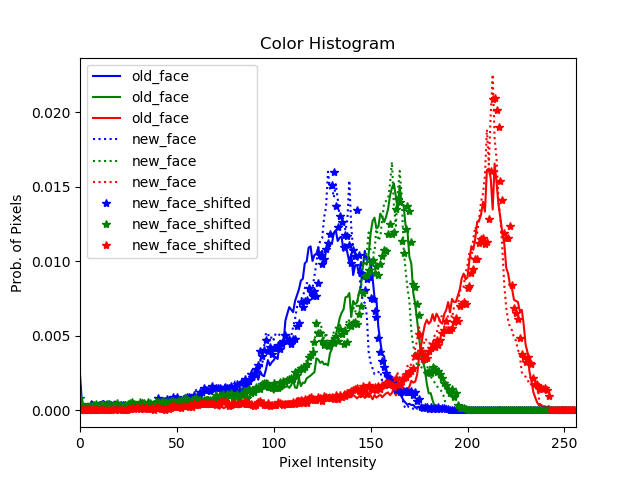
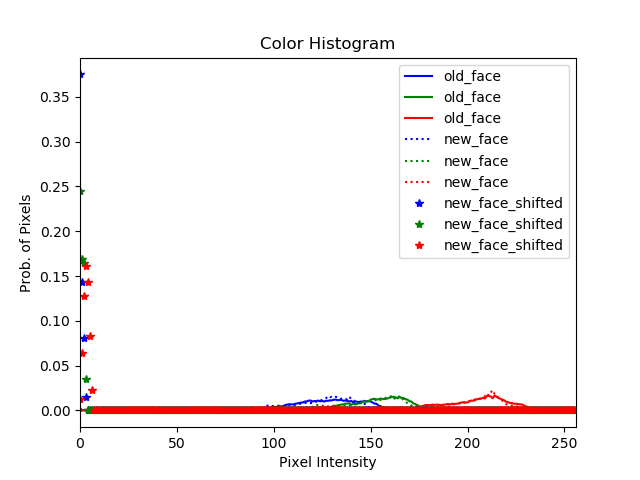
use adjusted and not raw mask

diff --git a/plugins/convert/color/_base.py b/plugins/convert/color/_base.py
@@ -37,31 +37,25 @@ class Adjustment():
         logger.debug("Config: %s", retval)
         return retval
 
-    def process(self, old_face, new_face, raw_mask, color_method):
+    def process(self, old_face, new_face, color_method):
         """ Override for specific color adjustment process """
         raise NotImplementedError
 
-    def run(self, old_face, new_face, raw_mask, color_method):
+    def run(self, old_face, new_face, color_method):
         """ Perform selected adjustment on facial crops """
         logger.trace("Performing color adjustment")
-        # Remove Mask for processing .... see if this is necessary
-        reinsert_mask = False
-        if new_face.shape[2] == 4:
-            reinsert_mask = True
-            final_mask = new_face[:, :, -1:]
-            new_face = new_face[:, :, :3]
+        old_face_color = self.convert_colorspace(old_face[None, :, :, :3], color_method, to_bgr=False)
+        new_face_color = self.convert_colorspace(new_face[None, :, :, :3], color_method, to_bgr=False)
+        mask = np.concatenate((new_face[:, :, -1:], new_face[:, :, -1:], new_face[:, :, -1:]), axis=-1)[None, ...]
 
-        old_face_color = self.convert_colorspace(old_face[None, ...], color_method, to_bgr=False)
-        new_face_color = self.convert_colorspace(new_face[None, ...], color_method, to_bgr=False)
-        mask = np.concatenate((raw_mask, raw_mask, raw_mask), axis=-1)[None, ...]
         new_face_shifted = self.process(old_face_color, new_face_color, mask)
         new_face_shifted = self.convert_colorspace(new_face_shifted, color_method, to_bgr=True)
-        new_face_shifted = self.clip_image(new_face_shifted)[0]
-        # self._histogram_compare(old_face, new_face, new_face_shifted, raw_mask)
-        if reinsert_mask and new_face.shape[2] != 4:
-            new_face_shifted = np.concatenate((new_face_shifted, final_mask), axis=-1)
+        new_face_shifted = self.clip_image(new_face_shifted)
+        new_face[:, :, :3] = new_face_shifted[0]
+
+        # self._histogram_compare(old_face, new_face, new_face_shifted, mask)
         logger.trace("Performed color adjustment")
-        return new_face_shifted
+        return new_face
 
     def convert_colorspace(self, new_face, color_method, to_bgr=False):
         """ Convert colorspace based on mode or back to BGR """
@@ -108,7 +102,7 @@ class Adjustment():
         return image
 
     @staticmethod
-    def _histogram_compare(old_face, new_face, new_face_shifted, raw_mask):
+    def _histogram_compare(old_face, new_face, new_face_shifted, mask):
         """
         Perform either clipping or min-max scaling to a NumPy array
 
@@ -131,7 +125,7 @@ class Adjustment():
         plt.xlabel("Pixel Intensity")
         plt.ylabel("Prob. of Pixels")
          
-        mask = np.rint(raw_mask).astype("uint8")
+        mask = np.rint(mask).astype("uint8")
         for (image, marker, linestyle, name) in zip(images, markers, linestyles, names):
             for (color, channel) in zip(colors, channels):
                 hist = cv2.calcHist([image], channels=[channel], mask=mask, histSize=[256], ranges=[0.0, 1.0], accumulate=False)

diff --git a/plugins/convert/color/seamless_clone.py b/plugins/convert/color/seamless_clone.py
@@ -9,7 +9,7 @@ from ._base import Adjustment
 class Color(Adjustment):
     """ Poisson Blending of colors along mask boundary """
 
-    def process(self, old_face, new_face, raw_mask):
+    def process(self, old_face, new_face, mask):
         """
         Seamlessly merge the swapped facial crop into the original facial crop using Poisson
         Blending. The colors along the segmentation mask boundary will be shifted to produce
@@ -21,7 +21,7 @@ class Color(Adjustment):
             Facial crop of the original subject
         new_face : Numpy array, shape (n_images, height, width, n_channels), float32
             Facial crop of the swapped output from the neural network
-        raw_mask : Numpy array, shape (n_images, height, width, n_channels), float32
+        mask : Numpy array, shape (n_images, height, width, n_channels), float32
             Segmentation mask of the facial crop of the original subject
 
         Returns:
@@ -30,22 +30,22 @@ class Color(Adjustment):
             Facial crop of the swapped output with a shifted color distribution
         """
         new_face_shifted = np.empty_like(new_face)
-        for index, (old_img, new_img, mask) in enumerate(zip(old_face, new_face, raw_mask)):
-            new_face_shifted[index] = self._seamless_clone(old_img, new_img, mask)
+        for index, (old_img, new_img, img_mask) in enumerate(zip(old_face, new_face, mask)):
+            new_face_shifted[index] = self._seamless_clone(old_img, new_img, img_mask)
         return new_face_shifted
 
     @staticmethod
-    def _seamless_clone(old_face, new_face, raw_mask):
+    def _seamless_clone(old_face, new_face, mask):
         """  Clone each image seperately """
         height, width, _ = old_face.shape
-        y_indices, x_indices, _ = np.nonzero(raw_mask)
+        y_indices, x_indices, _ = np.nonzero(mask)
         y_crop = slice(np.min(y_indices), np.max(y_indices))
         x_crop = slice(np.min(x_indices), np.max(x_indices))
         y_center = int(np.rint((np.max(y_indices) + np.min(y_indices) + height) / 2.0))
         x_center = int(np.rint((np.max(x_indices) + np.min(x_indices) + width) / 2.0))
 
         insertion_image = np.rint(new_face[y_crop, x_crop] * 255.0).astype("uint8")
-        insertion_mask = np.rint(raw_mask[y_crop, x_crop] * 255.0).astype("uint8")
+        insertion_mask = np.rint(mask[y_crop, x_crop] * 255.0).astype("uint8")
         insertion_mask[insertion_mask != 0] = 255
         height = height // 2
         width = width // 2

diff --git a/plugins/convert/color/match_variance.py b/plugins/convert/color/match_variance.py
@@ -15,7 +15,7 @@ class Color(Adjustment):
     """
 
     @staticmethod
-    def process(old_face, new_face, raw_mask):
+    def process(old_face, new_face, mask):
         """
         Match the 1st and 2nd moments of the color distribution from the original facial crop
         by adjusting the distribution in the swapped facial crop.
@@ -26,7 +26,7 @@ class Color(Adjustment):
             Facial crop of the original subject
         new_face : Numpy array, shape (n_images, height, width, n_channels), float32
             Facial crop of the swapped output from the neural network
-        raw_mask : Numpy array, shape (n_images, height, width, n_channels), float32
+        mask : Numpy array, shape (n_images, height, width, n_channels), float32
             Segmentation mask of the facial crop of the original subject
 
         Returns:
@@ -34,10 +34,10 @@ class Color(Adjustment):
         new_face_shifted : Numpy array, shape (n_images, height, width, n_channels), float32
             Facial crop of the swapped output with a shifted color distribution
         """
-        old_mean = np.average(old_face, axis=(1, 2), weights=raw_mask)
-        new_mean = np.average(new_face, axis=(1, 2), weights=raw_mask)
-        old_std = np.sqrt(np.average((old_face - old_mean)**2, axis=(1, 2), weights=raw_mask))
-        new_std = np.sqrt(np.average((new_face - new_mean)**2, axis=(1, 2), weights=raw_mask))
+        old_mean = np.average(old_face, axis=(1, 2), weights=mask)
+        new_mean = np.average(new_face, axis=(1, 2), weights=mask)
+        old_std = np.sqrt(np.average((old_face - old_mean)**2, axis=(1, 2), weights=mask))
+        new_std = np.sqrt(np.average((new_face - new_mean)**2, axis=(1, 2), weights=mask))
 
         # there is no "preserve paper" as Reinhard's math always uses (old_face_std / new_face_std)
         # must have been confusion due to the terminology of "source" and "target" in the paper

diff --git a/plugins/convert/color/match_histogram.py b/plugins/convert/color/match_histogram.py
@@ -8,7 +8,7 @@ from ._base import Adjustment
 class Color(Adjustment):
     """ Match the histogram of the color intensity of each image channel """
 
-    def process(self, old_face, new_face, raw_mask):
+    def process(self, old_face, new_face, mask):
         """
         Calculate the histogram of each color channel in the original facial crop and the
         swapped facial crop. Shift the histogram of the swap to align with the histogram of the
@@ -20,7 +20,7 @@ class Color(Adjustment):
             Facial crop of the original subject
         new_face : Numpy array, shape (n_images, height, width, n_channels), float32
             Facial crop of the swapped output from the neural network
-        raw_mask : Numpy array, shape (n_images, height, width, n_channels), float32
+        mask : Numpy array, shape (n_images, height, width, n_channels), float32
             Segmentation mask of the facial crop of the original subject
 
         Returns:
@@ -31,8 +31,8 @@ class Color(Adjustment):
         threshold = self.config["threshold"]
         channels = range(new_face.shape[-1])
         new_face_shifted = np.empty_like(new_face)
-        for index, (old_img, new_img, mask) in enumerate(zip(old_face, new_face, raw_mask)):
-            mask_indices = np.nonzero(mask)[:2]
+        for index, (old_img, new_img, img_mask) in enumerate(zip(old_face, new_face, mask)):
+            mask_indices = np.nonzero(img_mask)[:2]
             for channel in channels:
                 new_face_shifted[index, :, :, channel] = self._hist_match(old_img[:, :, channel],
                                                                           new_img[:, :, channel],

diff --git a/plugins/convert/color/color_transfer.py b/plugins/convert/color/color_transfer.py
@@ -33,7 +33,7 @@ class Color(Adjustment):
     between Images" paper by Reinhard et al., 2001.
     """
 
-    def process(self, old_face, new_face, raw_mask):
+    def process(self, old_face, new_face, mask):
         """
         Parameters:
         -------
@@ -64,10 +64,10 @@ class Color(Adjustment):
         # sure to utilizing the floating point data type (note: OpenCV
         # expects floats to be 32-bit, so use that instead of 64-bit)
         source = cv2.cvtColor(  # pylint: disable=no-member
-            np.rint(old_face[0][:,:,::-1] * raw_mask[0] * 255.0).astype("uint8"),
+            np.rint(old_face[0][:,:,::-1] * mask[0] * 255.0).astype("uint8"),
             cv2.COLOR_BGR2LAB).astype("float32")  # pylint: disable=no-member
         target = cv2.cvtColor(  # pylint: disable=no-member
-            np.rint(new_face[0][:,:,::-1] * raw_mask[0] * 255.0).astype("uint8"),
+            np.rint(new_face[0][:,:,::-1] * mask[0] * 255.0).astype("uint8"),
             cv2.COLOR_BGR2LAB).astype("float32")  # pylint: disable=no-member
         # compute color statistics for the source and target images
         (l_mean_src, l_std_src,
@@ -112,7 +112,7 @@ class Color(Adjustment):
         transfer = cv2.cvtColor(  # pylint: disable=no-member
             transfer.astype("uint8"),
             cv2.COLOR_LAB2BGR).astype("float32") / 255.0  # pylint: disable=no-member
-        background = new_face[0] * (1 - raw_mask[0])
+        background = new_face[0] * (1 - mask[0])
         merged = transfer[:,:,::-1] + background
         print("end")
         # return the color transferred image

diff --git a/plugins/convert/color/match_skew.py b/plugins/convert/color/match_skew.py
@@ -9,7 +9,7 @@ from ._base import Adjustment
 class Color(Adjustment):
     """ Color distribution shifting using an optimized power transform """
 
-    def process(self, old_face, new_face, raw_mask):
+    def process(self, old_face, new_face, mask):
         """
         Remap swapped_images to the source_images' color distribution accounting for the skewed
         color distribution
@@ -20,7 +20,7 @@ class Color(Adjustment):
             Facial crop of the original subject whose color distributions are to be matched
         new_face : Numpy array, shape (n_images, height, width, n_channels), float32
             Facial crop of the swapped output from the neural network
-        raw_mask : Numpy array, shape (n_images, height, width, n_channels), float32
+        mask : Numpy array, shape (n_images, height, width, n_channels), float32
             Segmentation mask of the facial crop of the original subject
 
         Returns:
@@ -31,7 +31,7 @@ class Color(Adjustment):
         channels = range(new_face.shape[-1])
         old_faces = np.concatenate([old_face[..., channel] for channel in channels], axis=0)
         new_faces = np.concatenate([new_face[..., channel] for channel in channels], axis=0)
-        masks = np.concatenate([raw_mask[..., channel] for channel in channels], axis=0)
+        masks = np.concatenate([mask[..., channel] for channel in channels], axis=0)
         new_face_shifted = new_faces.copy()
         for index, (old, new, mask) in enumerate(zip(old_faces, new_faces, masks)):
             select = (mask >= 0.5)

diff --git a/plugins/convert/color/match_mean.py b/plugins/convert/color/match_mean.py
@@ -9,7 +9,7 @@ class Color(Adjustment):
     """ Color distribution matching """
 
     @staticmethod
-    def process(old_face, new_face, raw_mask):
+    def process(old_face, new_face, mask):
         """
         Match the 1st moment of the color distribution from the original facial crop
         by adjusting the distribution in the swapped facial crop.
@@ -20,7 +20,7 @@ class Color(Adjustment):
             Facial crop of the original subject
         new_face : Numpy array, shape (n_images, height, width, n_channels), float32
             Facial crop of the swapped output from the neural network
-        raw_mask : Numpy array, shape (n_images, height, width, n_channels), float32
+        mask : Numpy array, shape (n_images, height, width, n_channels), float32
             Segmentation mask of the facial crop of the original subject
 
         Returns:
@@ -28,6 +28,6 @@ class Color(Adjustment):
         new_face_shifted : Numpy array, shape (n_images, height, width, n_channels), float32
             Facial crop of the swapped output with a shifted color distribution
         """
-        adjustment = np.average(old_face - new_face, axis=(1, 2), weights=raw_mask)
+        adjustment = np.average(old_face - new_face, axis=(1, 2), weights=mask)
         new_face_shifted = new_face + adjustment
         return new_face_shifted

diff --git a/plugins/convert/color/manual_balance.py b/plugins/convert/color/manual_balance.py
@@ -8,7 +8,7 @@ from ._base import Adjustment
 class Color(Adjustment):
     """ Color distribution adjustment """
 
-    def process(self, old_face, new_face, raw_mask):
+    def process(self, old_face, new_face, mask):
         """
         Shift the color distribution of the swapped facial crop by an user input amount.
 
@@ -18,7 +18,7 @@ class Color(Adjustment):
             Facial crop of the original subject
         new_face : Numpy array, shape (n_images, height, width, n_channels), float32
             Facial crop of the swapped output from the neural network
-        raw_mask : Numpy array, shape (n_images, height, width, n_channels), float32
+        mask : Numpy array, shape (n_images, height, width, n_channels), float32
             Segmentation mask of the facial crop of the original subject
 
         Returns:

diff --git a/lib/convert.py b/lib/convert.py
@@ -276,9 +276,9 @@ class Converter():
         new_face = self._adjustments["box"].run(new_face)
         new_face, raw_mask = self._get_image_mask(new_face, detected_face, predicted_mask)
         if self._adjustments["color"] is not None:
-            new_face = self._adjustments["color"].run(old_face, new_face, raw_mask, self._args.color_adjustment)
+            new_face = self._adjustments["color"].run(old_face, new_face, self._args.color_adjustment)
         if self._adjustments["seamless"] is not None:
-            new_face = self._adjustments["seamless"].run(old_face, new_face, raw_mask)
+            new_face = self._adjustments["seamless"].run(old_face, new_face)
         logger.trace("returning: new_face shape %s", new_face.shape)
         return new_face
 
